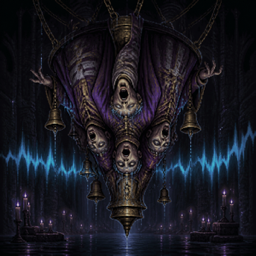
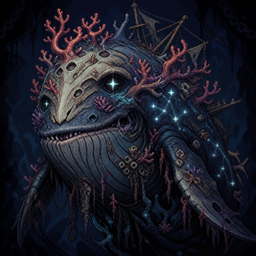
Move fallen heroes and refresh boss assets

diff --git a/FathomOfAbyss.html b/FathomOfAbyss.html
@@ -7146,6 +7146,16 @@
     S.screen = 'battle';
   }
 
+  /* 사망자는 대열의 맨 뒤로 밀려난다. 생존자와 전사자의 상대 순서는 유지해
+     사용자가 정한 기본 대형을 최대한 보존하면서, 실제 카드 위치도 함께 당긴다. */
+  function moveFallenHeroesToRear(){
+    if(!S || !Array.isArray(S.party)) return;
+    const living = S.party.filter(p=>p && p.alive);
+    const fallen = S.party.filter(p=>p && !p.alive);
+    const vacant = S.party.filter(p=>!p);
+    S.party = living.concat(fallen, vacant);
+  }
+
   /* 죽은 자는 열을 차지하지 않는다 — 앞이 쓰러지면 뒤가 당겨진다 (다키스트던전식) */
   function effRank(arr, idx){
     let r = 0;
@@ -7684,6 +7694,7 @@
     if(res.kind==='guard'){ queueFx('guard', hero, res.reduced); pushLog(`${ga(hero.name)} 흘려 막았다. (${res.dealt} 피해)`); }
     if(hero.hp<=0 && hero.alive){
       hero.alive = false;
+      moveFallenHeroesToRear();
       purgeDeadClassCards(hero);
       recordResidenceDeath(hero);
       queueFx('death', hero);

diff --git a/src/game/50-combat.js b/src/game/50-combat.js
@@ -165,6 +165,16 @@
     S.screen = 'battle';
   }
 
+  /* 사망자는 대열의 맨 뒤로 밀려난다. 생존자와 전사자의 상대 순서는 유지해
+     사용자가 정한 기본 대형을 최대한 보존하면서, 실제 카드 위치도 함께 당긴다. */
+  function moveFallenHeroesToRear(){
+    if(!S || !Array.isArray(S.party)) return;
+    const living = S.party.filter(p=>p && p.alive);
+    const fallen = S.party.filter(p=>p && !p.alive);
+    const vacant = S.party.filter(p=>!p);
+    S.party = living.concat(fallen, vacant);
+  }
+
   /* 죽은 자는 열을 차지하지 않는다 — 앞이 쓰러지면 뒤가 당겨진다 (다키스트던전식) */
   function effRank(arr, idx){
     let r = 0;
@@ -703,6 +713,7 @@
     if(res.kind==='guard'){ queueFx('guard', hero, res.reduced); pushLog(`${ga(hero.name)} 흘려 막았다. (${res.dealt} 피해)`); }
     if(hero.hp<=0 && hero.alive){
       hero.alive = false;
+      moveFallenHeroesToRear();
       purgeDeadClassCards(hero);
       recordResidenceDeath(hero);
       queueFx('death', hero);
